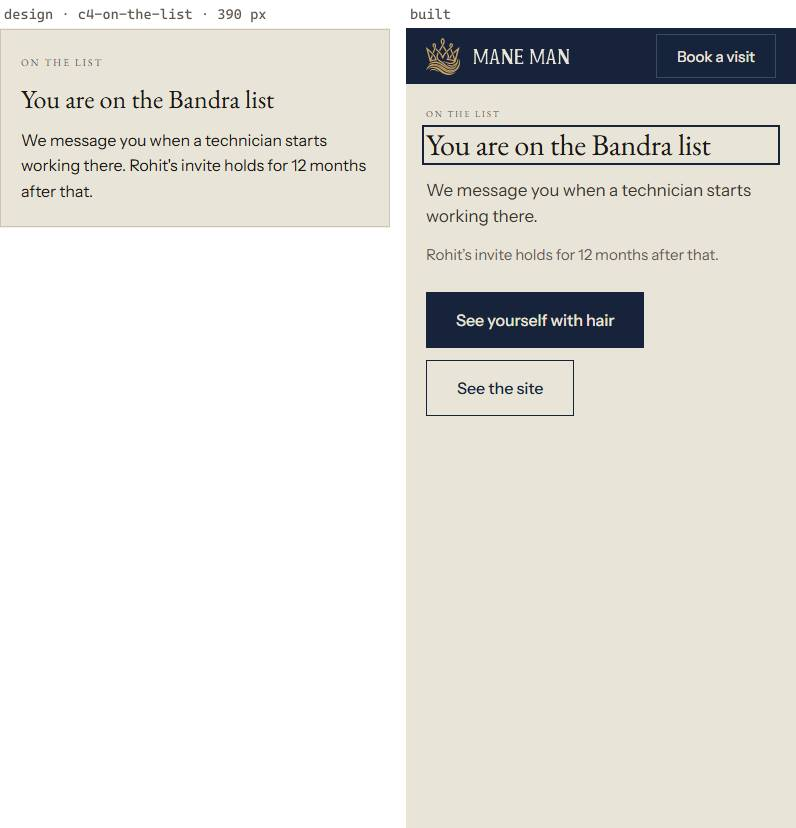
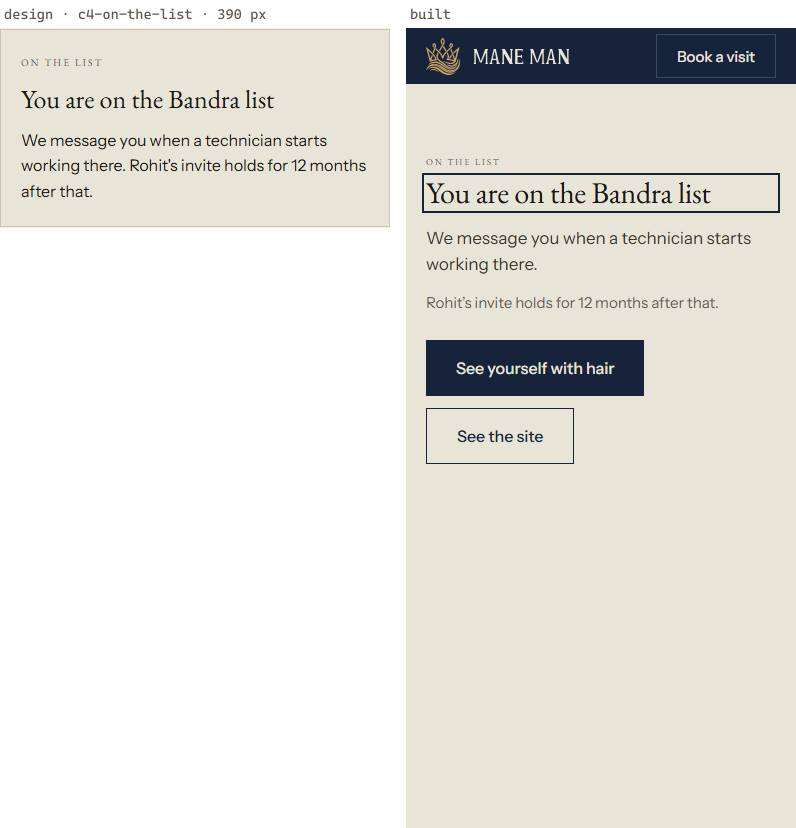
The house rules the landing broke
Four checks the repository keeps, and four things wrong with the new page:

- the island invented three tokens that do not exist, and one that had no value
  in any Phase 2 board, so the pincode field takes the row instead of a width of
  its own, as the board draws it;
- the Refer screen wrote a raw 4px where the scale has a name for it;
- the production gate allows no page to carry noindex, and the landing must:
  its address holds one person's invite code, so it joins the 404 as the second
  page kept out of search engines;
- the new fidelity harness belongs to the browser project, beside the others.

Changed region(s): [[0.5126, 0.151, 0.995, 0.5133], [0.5729, 0.5133, 0.6935, 0.5435]]

diff --git a/site/src/islands/Invite.module.css b/site/src/islands/Invite.module.css
@@ -120,7 +120,7 @@
 
 .pincodeTitle,
 .formTitle {
-  font-size: var(--fs-h3, var(--fs-24));
+  font-size: var(--fs-24);
 }
 
 .stepsTitle {
@@ -210,15 +210,16 @@
   color: var(--paper);
 }
 
+/* The field takes the row, with the button beside it, as the board draws them. */
 .pincodeField {
   flex: 1 1 auto;
-  max-width: var(--field-max, 220px);
+  min-width: 0;
 }
 
 /* ---- The two forms (C2, C3) ---------------------------------------------- */
 
 .formSection {
-  padding-block: var(--sp-32) var(--sp-40);
+  padding-block: var(--sp-32) var(--sp-36);
 }
 
 .served {
@@ -443,7 +444,7 @@
 /* ---- The confirmations (C4) ---------------------------------------------- */
 
 .done {
-  padding-block: var(--sp-48) var(--sp-40);
+  padding-block: var(--sp-48) var(--sp-36);
 }
 
 .tick {
@@ -502,7 +503,7 @@
 
 @media (min-width: 1024px) {
   .arrival {
-    padding-block: var(--sp-64) var(--sp-56);
+    padding-block: var(--sp-48) var(--sp-48);
   }
 
   .priceRows {

diff --git a/test/node/site-production-gate.test.ts b/test/node/site-production-gate.test.ts
@@ -24,8 +24,9 @@ describe("the production site build", () => {
     for (const page of pages) {
       const html = readFileSync(`${OUT}/${page}`, "utf8");
       expect(html, page).not.toContain(">Placeholder<");
-      // The 404 page alone stays out of search engines.
-      if (page !== "404.html") expect(html, page).not.toContain("noindex");
+      // Two pages stay out of search engines: the 404, and the referral landing, whose
+      // address holds one person's invite code (docs/decisions/0027-referral-landing.md).
+      if (page !== "404.html" && page !== "r.html") expect(html, page).not.toContain("noindex");
       for (const value of placeholders) expect(html, `${page}: ${value}`).not.toContain(value);
     }
     expect(readFileSync(`${OUT}/robots.txt`, "utf8")).toContain("Allow: /");

diff --git a/apps/app/src/refer/refer.module.css b/apps/app/src/refer/refer.module.css
@@ -87,7 +87,7 @@
   font-size: var(--fs-15);
   color: var(--text);
   text-decoration: underline;
-  text-underline-offset: 4px;
+  text-underline-offset: var(--sp-4);
 }
 
 /* Board F1's quiet way to the tracker, and F6's revoke. */
